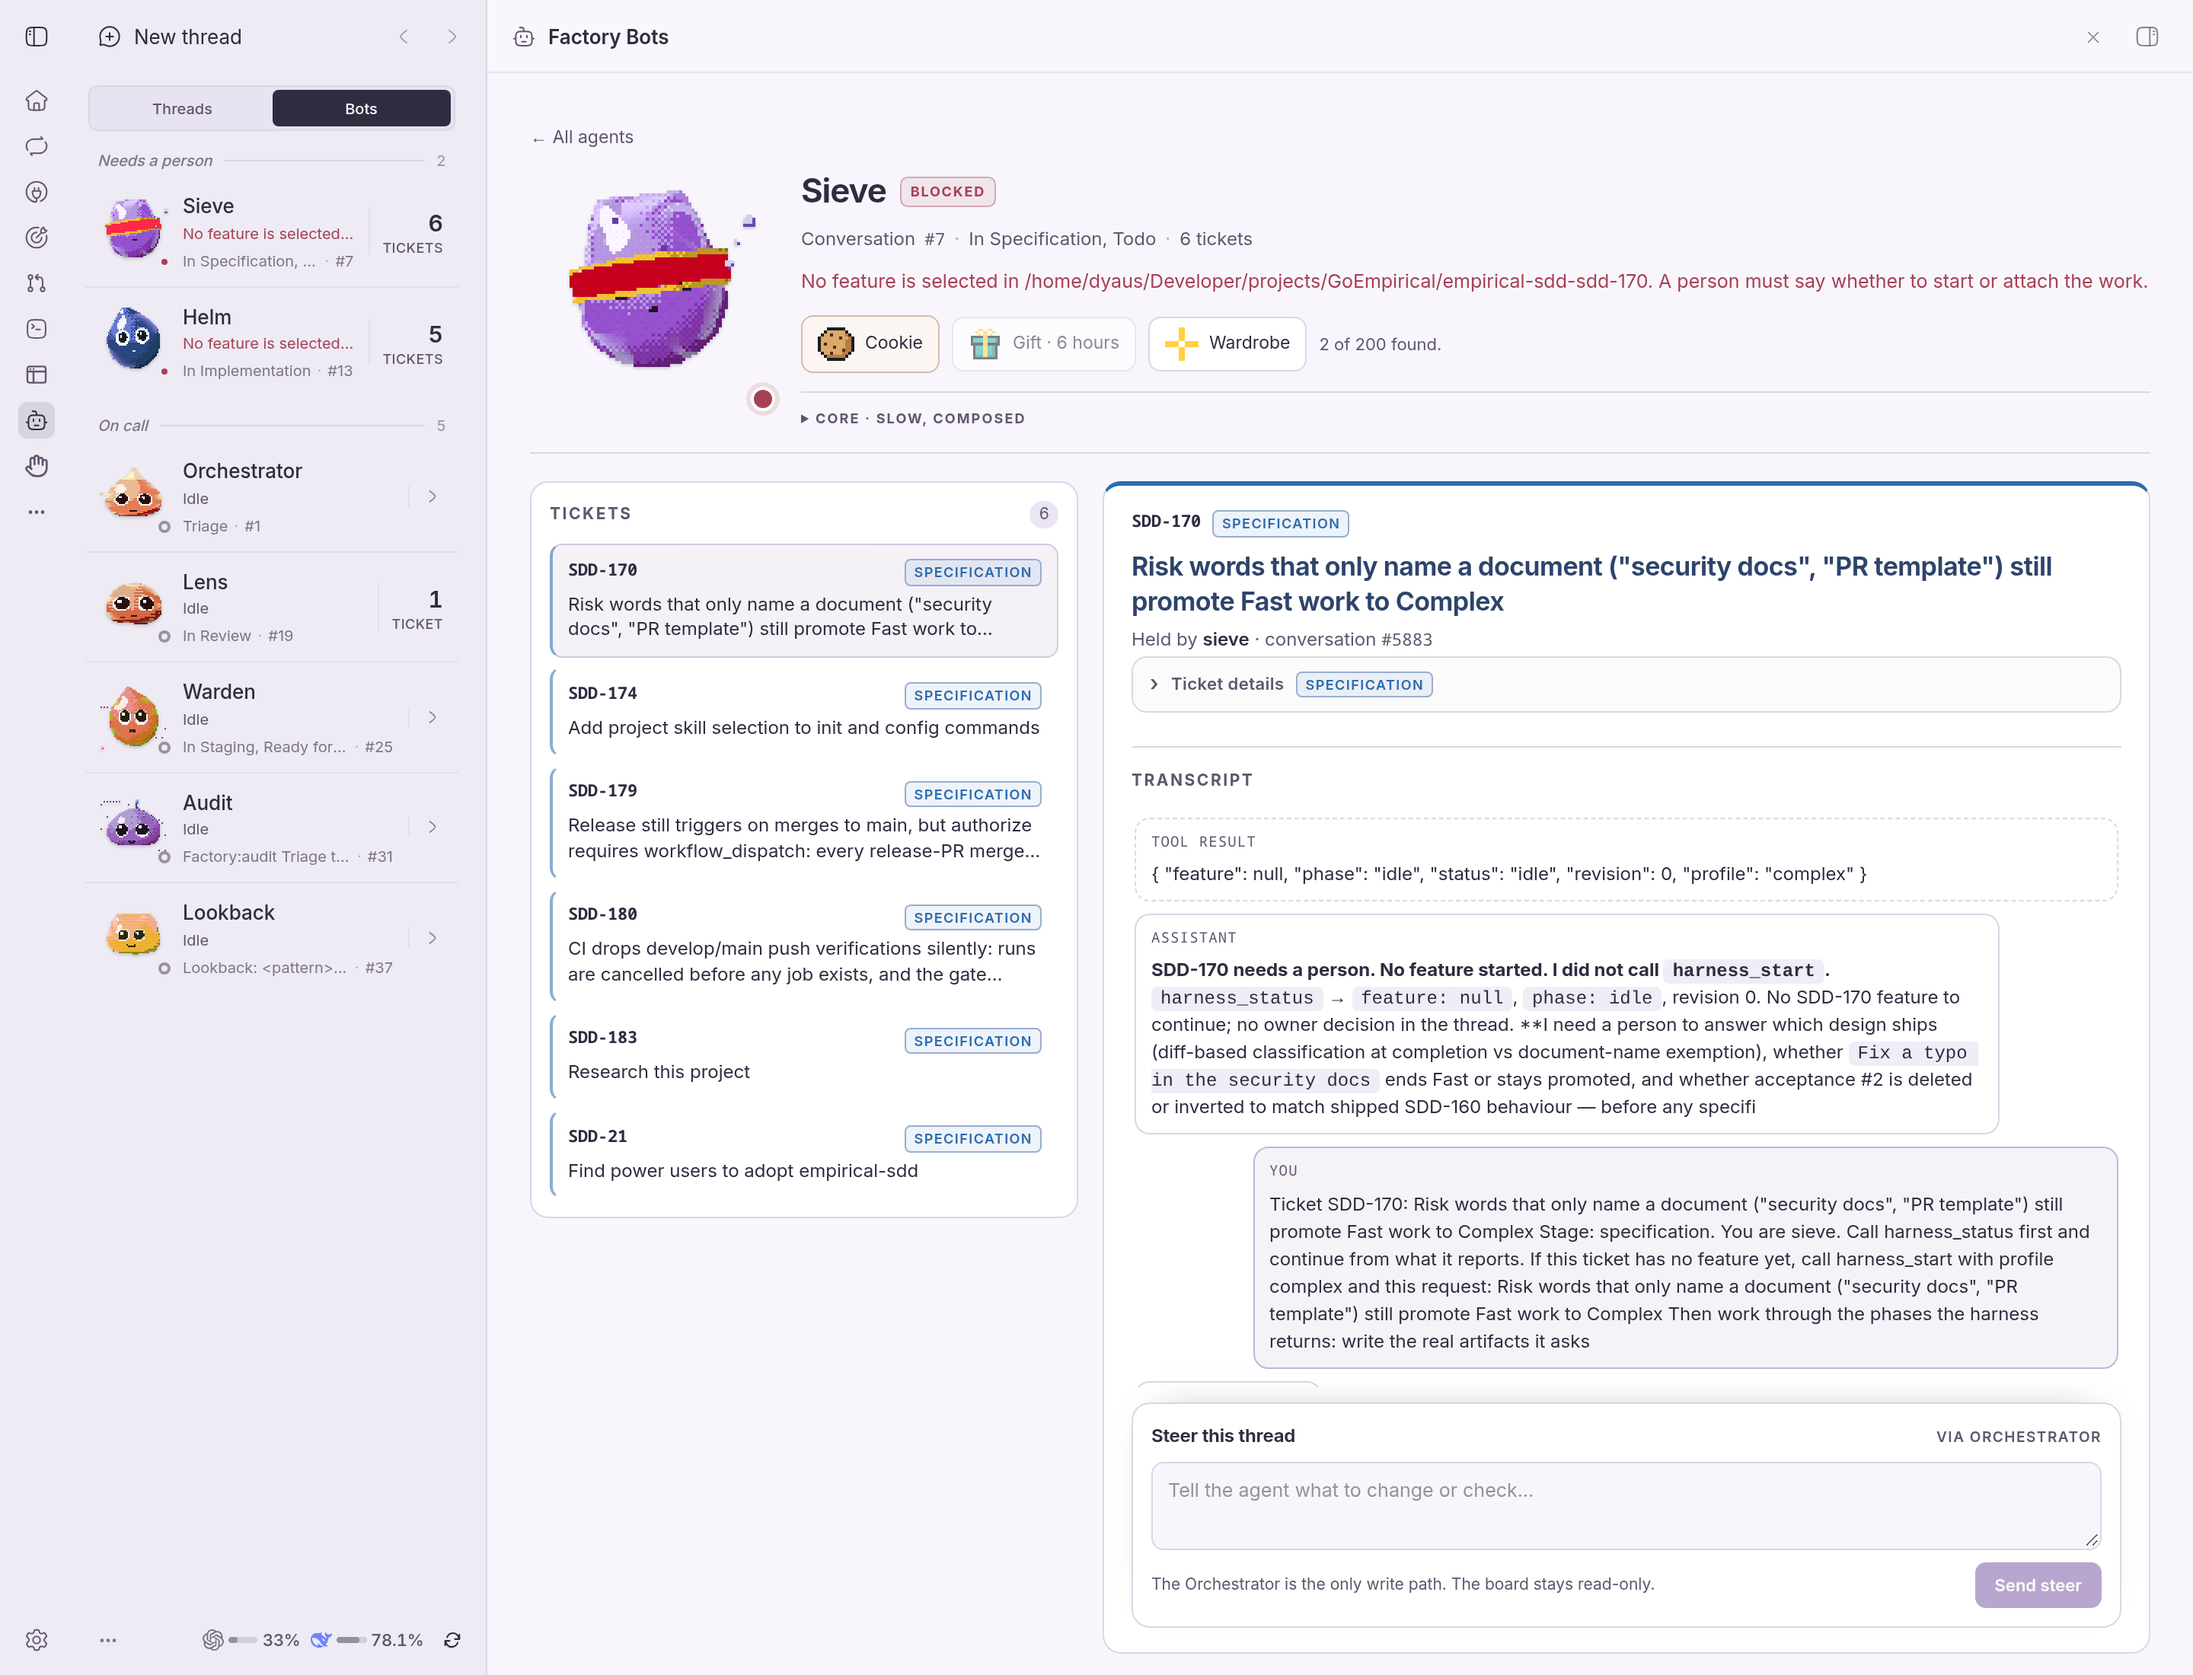
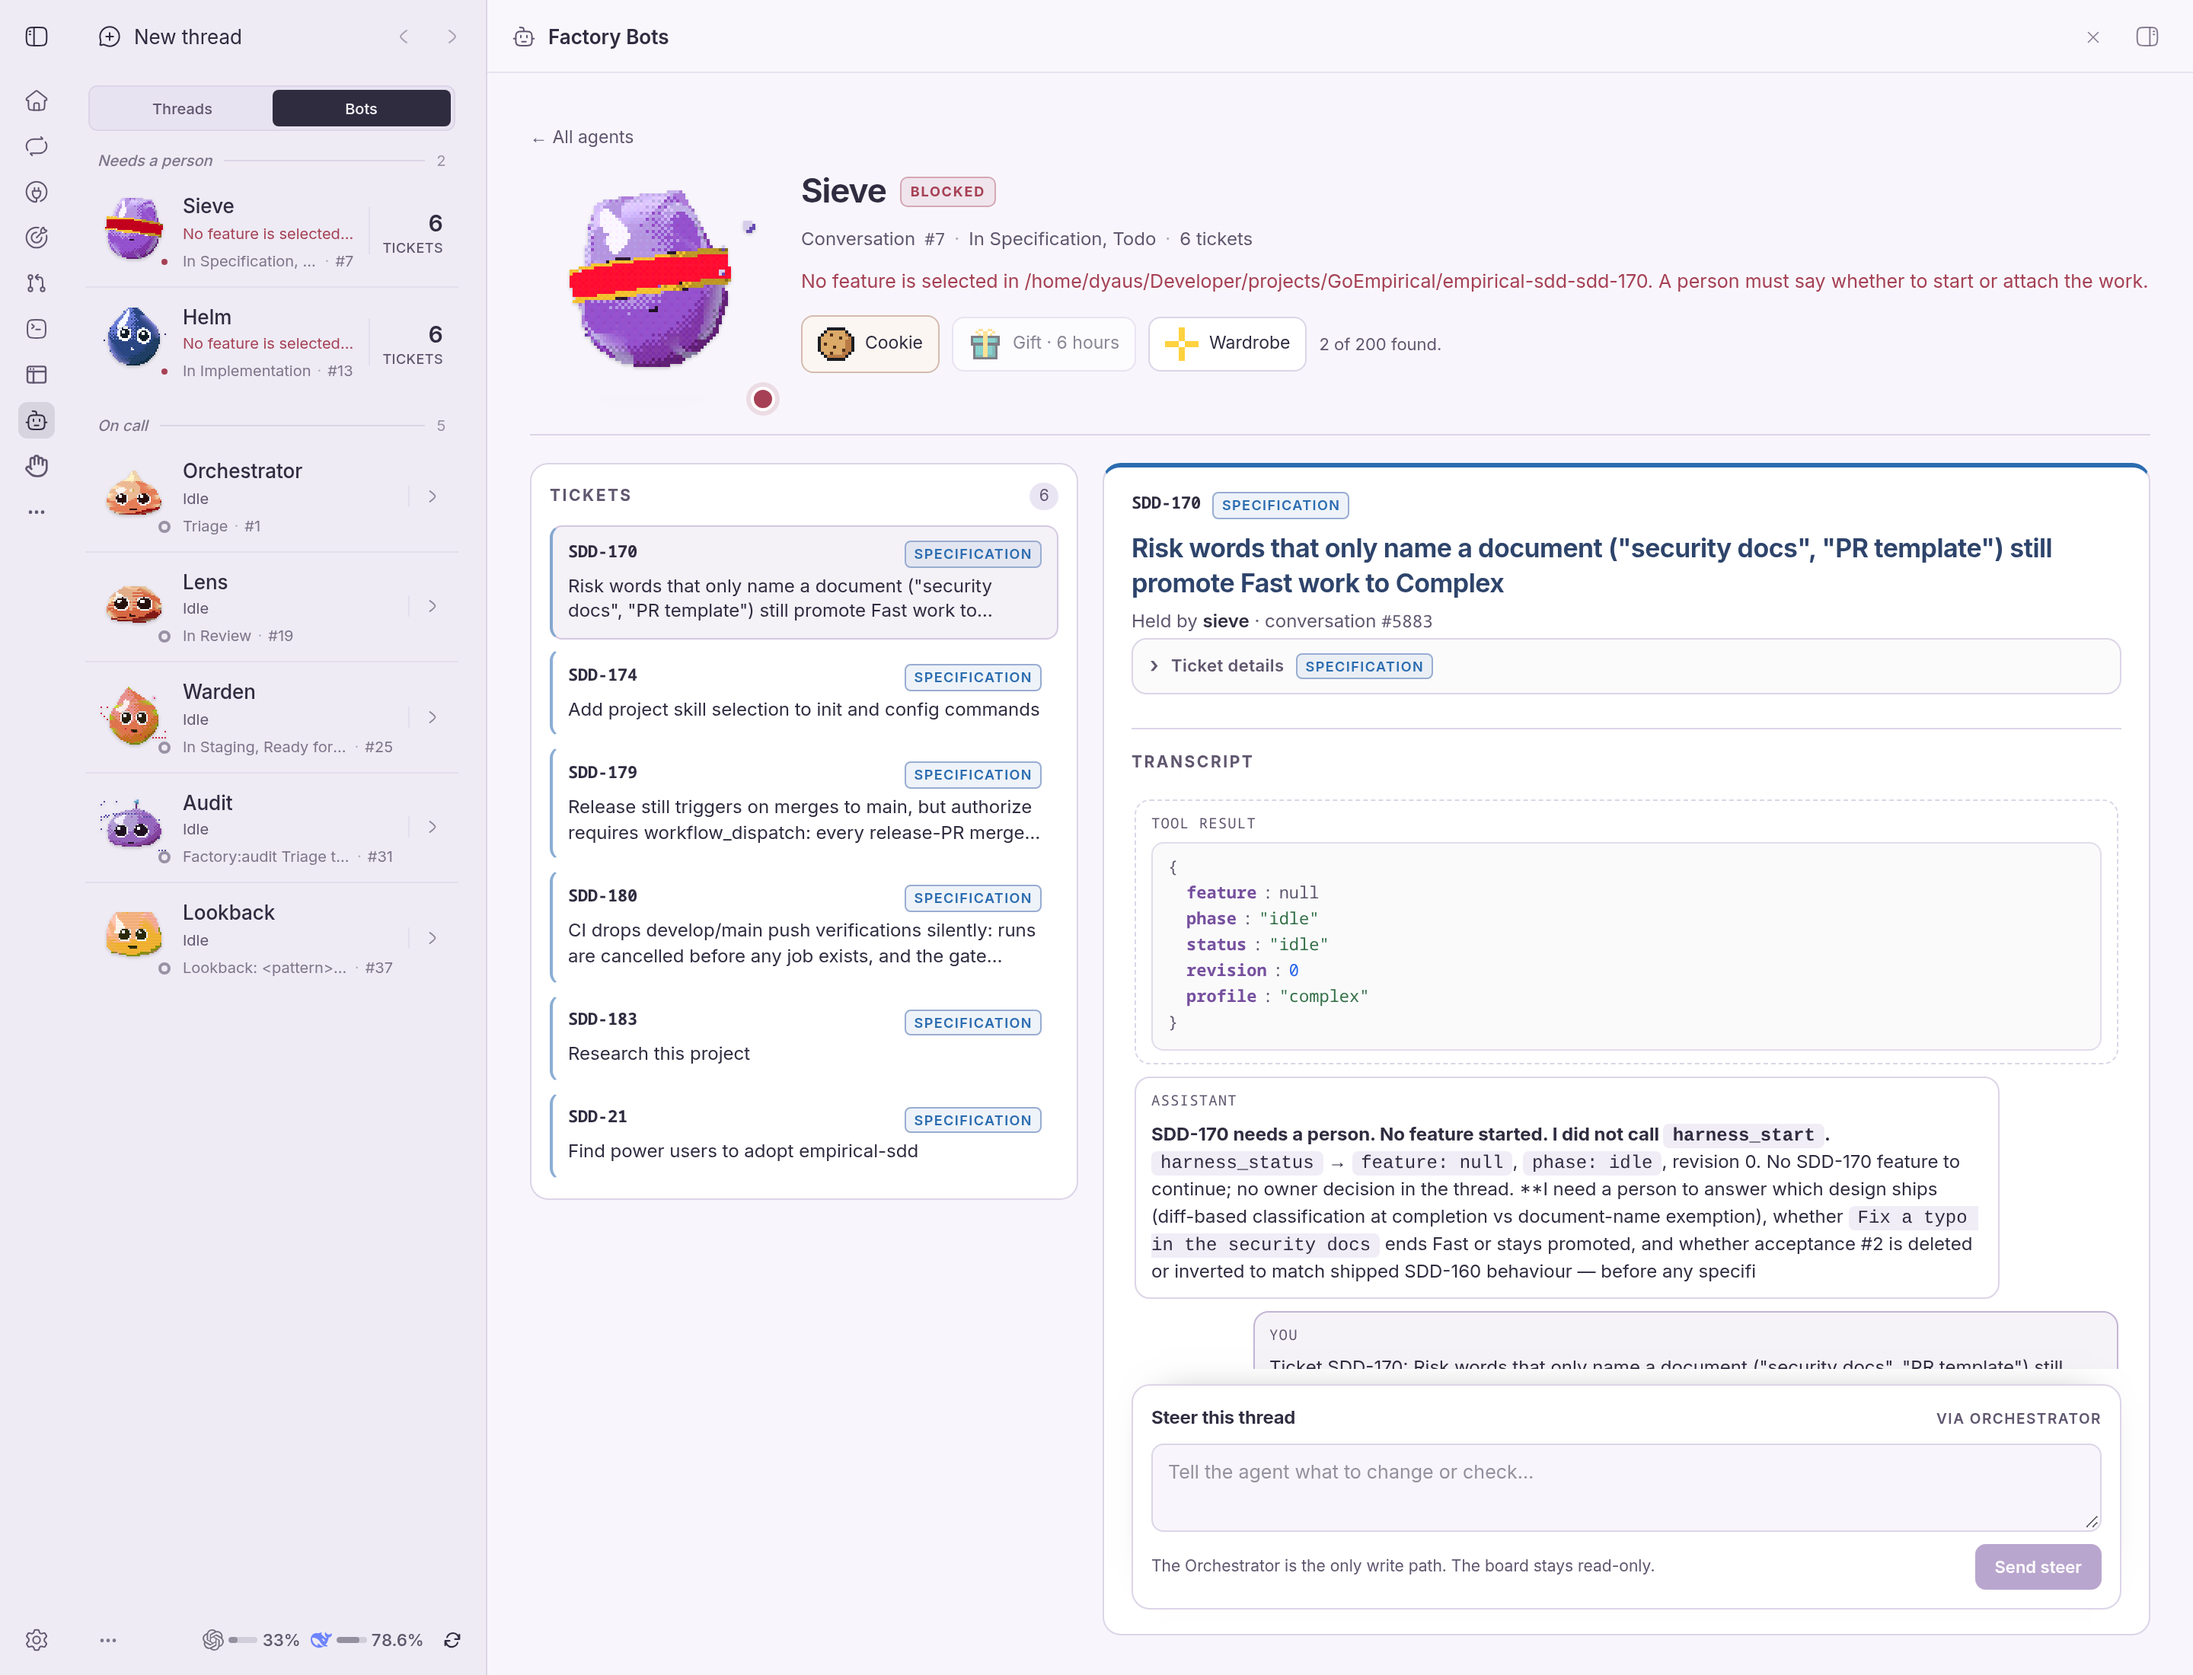
feat(factory-bots): improve transcript, wardrobe, and ticket color
Drop the Core strip from the agent header, render JSON tool results as a readable tree, show owned wardrobe items on mini Doods with slot icons for locked ones, drag-feed the cookie, and color tickets by stage. Keep the steer bar pinned to the thread bottom.

diff --git a/plugins/factory-bots/app.tsx b/plugins/factory-bots/app.tsx
@@ -2,7 +2,6 @@ import "./app.css";
 
 import {
   useEffect,
-  useMemo,
   useRef,
   useState,
   type FormEvent,
@@ -34,7 +33,6 @@ import type {
 } from "./contract";
 import { DoodOrb, type DoodOrbHandle } from "./lib/dood-orb";
 import { GiftDialog } from "./lib/gift-dialog";
-import { drawing } from "./lib/orb";
 import { WardrobeDialog } from "./lib/wardrobe-dialog";
 import { Pixels } from "./lib/pixels";
 import { avatarLook } from "./lib/dood";
@@ -714,17 +712,6 @@ function AgentHeader({
   const [treatOver, setTreatOver] = useState(false);
   const [now, setNow] = useState(() => Date.now());
   const gift = boxCountdown(dood, now);
-  const coreTraits = useMemo(() => {
-    try {
-      const core = drawing();
-      const genome = core?.makeGenome(agent.name);
-      return core !== null && core !== undefined && genome !== undefined
-        ? core.describeGenome(genome, true)
-        : [];
-    } catch {
-      return [];
-    }
-  }, [agent.name]);
   const feed = (): void => {
     orb.current?.feed();
     setDood((value) => ({ ...value, fed: value.fed + 1 }));
@@ -846,24 +833,6 @@ function AgentHeader({
                 : `${dood.owned.length} of ${WEAR_ITEMS.length} found.`}
             </span>
           </div>
-          {coreTraits.length === 0 ? null : (
-            <details className="fb-core">
-              <summary>
-                Core
-                {coreTraits.find(([label]) => label.toLowerCase().includes("temper"))?.[1]
-                  ? ` · ${coreTraits.find(([label]) => label.toLowerCase().includes("temper"))![1]}`
-                  : ""}
-              </summary>
-              <dl>
-                {coreTraits.map(([label, value]) => (
-                  <div key={label}>
-                    <dt>{label}</dt>
-                    <dd>{value}</dd>
-                  </div>
-                ))}
-              </dl>
-            </details>
-          )}
         </div>
       </div>
       {wardrobeOpen ? (
@@ -929,6 +898,71 @@ function Field({
     <div className="fb-field">
       <dt>{label}</dt>
       <dd className={tone === undefined ? undefined : `fb-${tone}`}>{children}</dd>
+    </div>
+  );
+}
+
+/** A tool result that is JSON is easier to scan as a tree than as one long line. */
+function parseJsonText(text: string): unknown | null {
+  const trimmed = text.trim();
+  if (!trimmed.startsWith("{") && !trimmed.startsWith("[")) return null;
+  try {
+    return JSON.parse(trimmed) as unknown;
+  } catch {
+    return null;
+  }
+}
+
+function JsonValueView({ value, depth = 0 }: { value: unknown; depth?: number }) {
+  if (value === null) return <span className="fb-json-null">null</span>;
+  if (typeof value === "string") {
+    return <span className="fb-json-string">"{value}"</span>;
+  }
+  if (typeof value === "number") {
+    return <span className="fb-json-number">{String(value)}</span>;
+  }
+  if (typeof value === "boolean") {
+    return <span className="fb-json-boolean">{String(value)}</span>;
+  }
+  if (Array.isArray(value)) {
+    if (value.length === 0) return <span className="fb-json-muted">[]</span>;
+    return (
+      <span className="fb-json-tree">
+        <span className="fb-json-muted">[</span>
+        {value.map((entry, index) => (
+          <span className="fb-json-row" key={index} style={{ paddingLeft: 12 + depth * 10 }}>
+            <span className="fb-json-index">{index}</span>
+            <JsonValueView value={entry} depth={depth + 1} />
+          </span>
+        ))}
+        <span className="fb-json-muted">]</span>
+      </span>
+    );
+  }
+  if (typeof value === "object") {
+    const entries = Object.entries(value as Record<string, unknown>);
+    if (entries.length === 0) return <span className="fb-json-muted">{"{}"}</span>;
+    return (
+      <span className="fb-json-tree">
+        <span className="fb-json-muted">{"{"}</span>
+        {entries.map(([key, entry]) => (
+          <span className="fb-json-row" key={key} style={{ paddingLeft: 12 + depth * 10 }}>
+            <span className="fb-json-key">{key}</span>
+            <span className="fb-json-muted">:</span>
+            <JsonValueView value={entry} depth={depth + 1} />
+          </span>
+        ))}
+        <span className="fb-json-muted">{"}"}</span>
+      </span>
+    );
+  }
+  return <span className="fb-json-muted">{String(value)}</span>;
+}
+
+function JsonBlock({ value }: { value: unknown }) {
+  return (
+    <div className="fb-json" role="region" aria-label="JSON result">
+      <JsonValueView value={value} />
     </div>
   );
 }
@@ -1003,7 +1037,11 @@ function TranscriptView({ transcript }: { transcript: Transcript }) {
                       ? "You"
                       : "Tool result"}
                 </span>
-                <Markdown content={entry.text} className="fb-entry-text" />
+                {parseJsonText(entry.text) === null ? (
+                  <Markdown content={entry.text} className="fb-entry-text" />
+                ) : (
+                  <JsonBlock value={parseJsonText(entry.text)} />
+                )}
               </li>
             );
           })}

diff --git a/plugins/factory-bots/lib/wardrobe-dialog.tsx b/plugins/factory-bots/lib/wardrobe-dialog.tsx
@@ -12,6 +12,45 @@ import {
   type WearSlot,
 } from "./wear-items";
 
+
+/** A small mark for what a tile is: a hat, glasses, a face, or a neck thing. */
+function SlotIcon({ slot }: { slot: WearSlot }) {
+  if (slot === "hat") {
+    return (
+      <svg viewBox="0 0 24 24" aria-hidden="true">
+        <path d="M7 10.5 8.3 4h7.4L17 10.5" fill="currentColor" opacity=".9" />
+        <path d="M5.5 10.5h13a1.5 1.5 0 0 1 0 3h-13a1.5 1.5 0 0 1 0-3Z" fill="currentColor" />
+        <path d="M8.3 18.5h7.4" stroke="currentColor" strokeWidth="1.6" strokeLinecap="round" opacity=".55" />
+      </svg>
+    );
+  }
+  if (slot === "glasses") {
+    return (
+      <svg viewBox="0 0 24 24" aria-hidden="true" fill="none" stroke="currentColor" strokeWidth="1.8">
+        <circle cx="7" cy="13" r="3.2" />
+        <circle cx="17" cy="13" r="3.2" />
+        <path d="M10.2 12.2h3.6M4.1 11.2 2.8 8M19.9 11.2l1.3-3.2" strokeLinecap="round" />
+      </svg>
+    );
+  }
+  if (slot === "face") {
+    return (
+      <svg viewBox="0 0 24 24" aria-hidden="true" fill="none" stroke="currentColor" strokeWidth="1.7">
+        <circle cx="12" cy="12" r="8.5" />
+        <circle cx="9" cy="10" r=".9" fill="currentColor" />
+        <circle cx="15" cy="10" r=".9" fill="currentColor" />
+        <path d="M8.8 14.2c1.8 1.8 4.6 1.8 6.4 0" strokeLinecap="round" />
+      </svg>
+    );
+  }
+  return (
+    <svg viewBox="0 0 24 24" aria-hidden="true" fill="none" stroke="currentColor" strokeWidth="1.7">
+      <path d="M4 8.5 9 6l3 3 3-3 5 2.5-2 4.5H6L4 8.5Z" fill="currentColor" opacity=".85" />
+      <path d="M7 13.5 6 20l4-2 2 2 2-2 4 2-1-6.5" strokeLinejoin="round" />
+    </svg>
+  );
+}
+
 const SLOT_LABEL: Record<WearSlot, string> = {
   hat: "Hats",
   glasses: "Glasses",
@@ -153,7 +192,16 @@ export function WardrobeDialog({
                   style={{ "--tier": rarity.color } as React.CSSProperties}
                 >
                   <span className="fb-wardrobe-tile-art">
-                    {has ? item.name.slice(0, 1).toUpperCase() : "?"}
+                    {has ? (
+                      <DoodOrb
+                        agentId={agentId}
+                        status={status}
+                        size={40}
+                        outfit={{ [item.slot]: item.id }}
+                      />
+                    ) : (
+                      <SlotIcon slot={item.slot} />
+                    )}
                   </span>
                   <span className="fb-wardrobe-tile-name">
                     {has ? item.name : rarity.label}

diff --git a/plugins/factory-bots/app.css b/plugins/factory-bots/app.css
@@ -2664,3 +2664,76 @@
     margin: 0;
   }
 }
+
+.fb-wardrobe-tile-art svg {
+  width: 24px;
+  height: 24px;
+  color: var(--tier);
+}
+
+.fb-wardrobe-tile[data-owned="false"] .fb-wardrobe-tile-art svg {
+  opacity: 0.55;
+}
+
+/* Tool results that are JSON get a readable tree, not a wall of text. */
+.fb-json {
+  max-height: 320px;
+  overflow: auto;
+  padding: 8px 10px;
+  border: 1px solid color-mix(in srgb, var(--border) 80%, transparent);
+  border-radius: 8px;
+  background: color-mix(in srgb, var(--foreground) 2.5%, transparent);
+  font-family: ui-monospace, SFMono-Regular, Menlo, monospace;
+  font-size: 11px;
+  line-height: 1.55;
+  text-align: left;
+}
+
+.fb-json-tree,
+.fb-json-row {
+  display: block;
+}
+
+.fb-json-row {
+  display: flex;
+  min-width: 0;
+  flex-wrap: wrap;
+  gap: 4px;
+  padding-left: 12px;
+}
+
+.fb-json-key {
+  color: var(--primary);
+  font-weight: 600;
+}
+
+.fb-json-string {
+  color: var(--fb-working);
+  overflow-wrap: anywhere;
+}
+
+.fb-json-number {
+  color: #2563eb;
+}
+
+.fb-json-boolean {
+  color: #b45309;
+}
+
+.fb-json-index,
+.fb-json-null,
+.fb-json-muted {
+  color: var(--muted-foreground);
+}
+
+.fb-wardrobe-tile-art {
+  display: grid;
+  width: 44px;
+  height: 44px;
+  place-items: center;
+}
+
+.fb-wardrobe-tile-art .fb-orb {
+  width: 40px;
+  height: 40px;
+}

diff --git a/plugins/factory-bots/README.md b/plugins/factory-bots/README.md
@@ -23,7 +23,7 @@ arrives six hours after the last one is opened, and one waits at most, the same
 rhythm as do.computer. Opening it finds one thing the creature does not have
 yet, and what it finds can be worn right there. Wardrobe is a full dressing page
 with a large live Dood and every slot; each agent's treats, gifts, and outfit are
-kept on this machine. The Core disclosure shows the seed traits behind the face.
+kept on this machine.
 
 ![The large wardrobe page](assets/screenshots/wardrobe.png)
 
